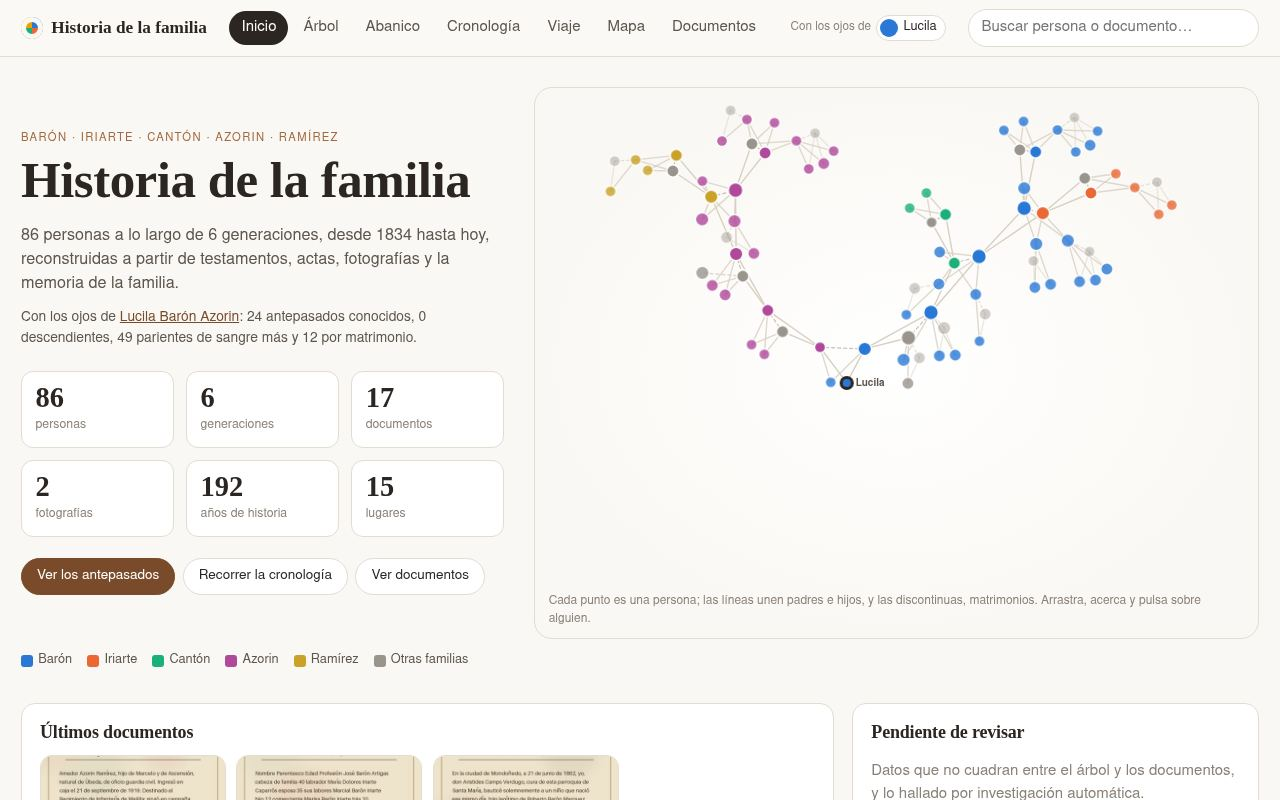
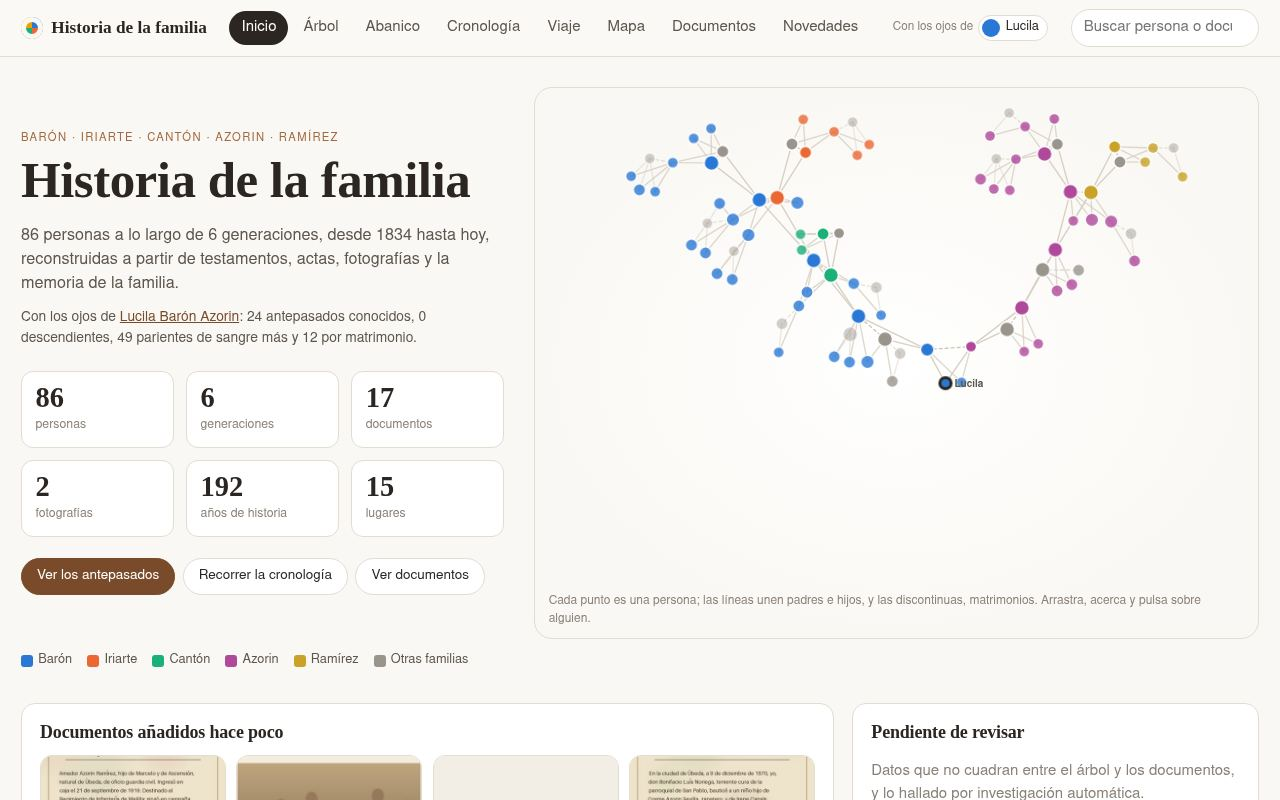
docs: demo screenshots with portraits, and one of «Novedades»
The READMEs' screenshots are retaken from the new demo, which now has
portraits and a history, and one of the news view fills the empty cell next
to the documents one.

diff --git a/web/screenshots/views.spec.ts b/web/screenshots/views.spec.ts
@@ -13,7 +13,7 @@ test.beforeEach(async ({ page }) => {
   await page.addInitScript(() => { try { localStorage.clear(); } catch { /* */ } });
 });
 
-for (const [name, segment] of [['home', 'inicio'], ['fan', 'abanico'], ['timeline', 'cronologia'], ['documents', 'documentos']]) {
+for (const [name, segment] of [['home', 'inicio'], ['fan', 'abanico'], ['timeline', 'cronologia'], ['documents', 'documentos'], ['news', 'novedades']]) {
   test(name, async ({ page }) => {
     await page.goto(`#${segment}`);
     await expect(page.locator(`#view-${name}`)).toHaveClass(/active/);

diff --git a/README.es.md b/README.es.md
@@ -48,7 +48,7 @@ De la [demo](https://elboletaire.github.io/family-tree-kit/) (`make screenshots`
 | **Abanico** de antepasados | **Cronología** de vidas, documentos y acontecimientos históricos |
 | ![Mapa](docs/screenshots/map.jpg) | ![Persona](docs/screenshots/person.jpg) |
 | **Mapa** de los lugares y las migraciones | La **ficha de una persona**: datos, parientes, documentos |
-| ![Documentos](docs/screenshots/documents.jpg) | |
+| ![Documentos](docs/screenshots/documents.jpg) | ![Novedades](docs/screenshots/news.jpg) |
 | **Documentos**, con los pendientes de revisar | |
 
 ## Empezar a mano

diff --git a/README.md b/README.md
@@ -48,7 +48,7 @@ From the [demo](https://elboletaire.github.io/family-tree-kit/) (`make screensho
 | **Fan chart** of ancestors | **Timeline** of lives, documents and historical events |
 | ![Map](docs/screenshots/map.jpg) | ![Person](docs/screenshots/person.jpg) |
 | **Map** of the places and migrations | A **person's card**: facts, relatives, documents |
-| ![Documents](docs/screenshots/documents.jpg) | |
+| ![Documents](docs/screenshots/documents.jpg) | ![What's new](docs/screenshots/news.jpg) |
 | **Documents**, with those pending review | |
 
 ## Start by hand
